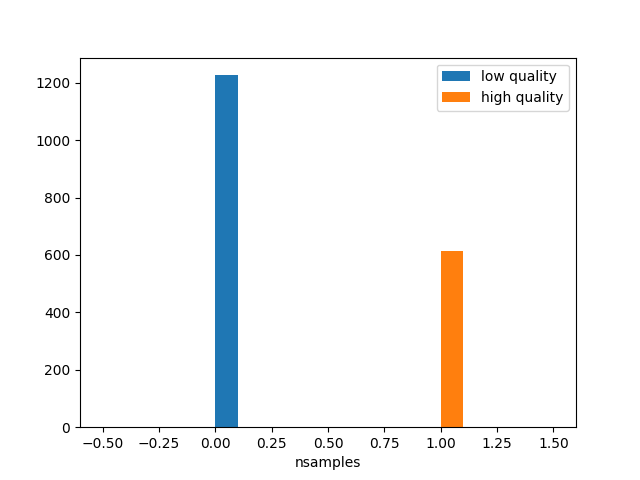
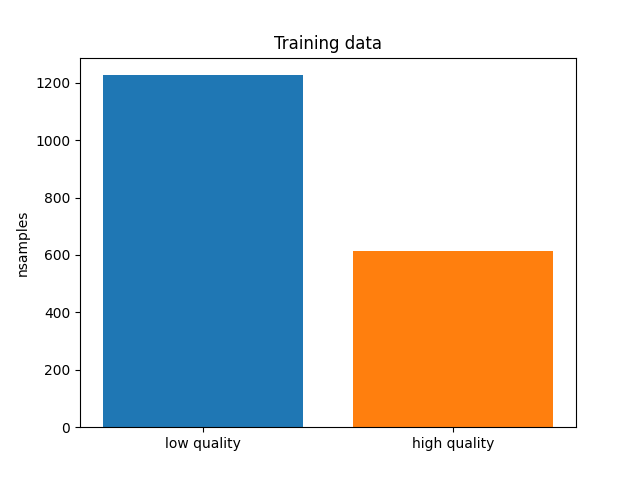
updated func gmm and bar num samples

diff --git a/main.py b/main.py
@@ -487,7 +487,7 @@ def print_table_SVM_minDCF(DTR, LTR, prior, cost_fn, cost_fp, k):
 def print_graphs_Polinomial_SVM_Cs_k_c(DTR, LTR, k ):
 
     def oneGraphSingleFold(data, prior, cost_fn, cost_fp, pi_T, K, c):
-        print("working on single fold k = ", k, "c = ", c)
+        print("working on single fold k = ", K, "c = ", c)
         exps = numpy.linspace(-2,2, 5)
         Cs = 10** exps
         minDCFs = 0 * exps
@@ -501,7 +501,7 @@ def print_graphs_Polinomial_SVM_Cs_k_c(DTR, LTR, k ):
         print("DONE")
 
     def oneGraphKFold(data, prior, cost_fn, cost_fp, pi_T, K, c):
-        print("working on k fold k = ", k, "c = ", c)
+        print("working on k fold k = ", K, "c = ", c)
         exps = numpy.linspace(-2,2, 5)
         Cs = 10** exps
         minDCFs = 0 * exps
@@ -730,38 +730,86 @@ def print_graphs_GMM_minDCF(DTR, LTR, k):
         plt.legend()
 
         plt.savefig('Graph/GMM/'+title+'.png' )
+
+
+      
+       
+def print_graphs_GMM_minDCF(DTR, LTR, k):
+
+    def bar_plot_gmm(raw_minDCFs, gau_minDCFs, gmm_comp, title):
+
+        widthbar = 0.2
+
+        x_ind = numpy.arange(len(gmm_comp))
+
+        raw_ind = x_ind - widthbar/2
+        gau_ind = x_ind + widthbar/2
+
+        lb1 = "minDCF (prior=0.5) - Raw"
+        lb2 = "minDCF (prior=0.5) - Gaussianized"
+        
+        plt.bar(raw_ind, raw_minDCFs, width = widthbar, color = 'orange', label = lb1)
+        plt.bar(gau_ind, gau_minDCFs, width = widthbar, color = 'red', label = lb2)
+
+        plt.xticks(x_ind ,gmm_comp)
+        plt.ylabel('minDCFs')
+        plt.xlabel('GMM components')
+        plt.legend()
+
+        plt.savefig('Graph/GMM/'+title+'.png' )
+
+
+    def GMM_compute_DCFs(DTR, LTR, k, covariance_type, prior, cost_fn, cost_fp):
+        gmm_comp = [1,2,4,8,16]
+        raw_minDCFs = []
+        gau_minDCFs = []
+
+        normalized_features = Z_normalization(DTR)
+        gaussianizedFeatures = gaussianization(DTR)
+
+        constrained=True
+        psi=0.01
+        alpha=0.1
     
-    gmm_comp = [1,2,4,8,16]
-    raw_minDCFs = []
-    gau_minDCFs = []
+        print("************************" + covariance_type + "*************************")
+        for i in range(len(gmm_comp)):
+            params = [constrained, psi, covariance_type, alpha, gmm_comp[i]]
+            print("-------> working on raw data, comp= ", gmm_comp[i])
+            # Raw features
+            raw_minDCFs_i,_,_ = model_evaluation.k_cross_DCF(normalized_features, LTR, k, gaussian_mixture_models.GMM_computeLogLikelihoodRatios, prior , cost_fn, cost_fp, params)
+            print("-------> DONE raw data")
+            # Gaussianized features
+            print("-------> working on gauss data, comp= ", gmm_comp[i])
+            gau_minDCFs_i,_,_ = model_evaluation.k_cross_DCF(gaussianizedFeatures, LTR,k, gaussian_mixture_models.GMM_computeLogLikelihoodRatios, prior , cost_fn, cost_fp, params)
+            print("-------> DONE gauss data")
+            raw_minDCFs.append(raw_minDCFs_i)
+            gau_minDCFs.append(gau_minDCFs_i)    
+        
+        raw_minDCFs=numpy.array(raw_minDCFs)
+        gau_minDCFs=numpy.array(gau_minDCFs)
+        return raw_minDCFs, gau_minDCFs, gmm_comp
 
-    prior= 0.5
-    cost_fn=1
-    cost_fp = 1
-
-    normalized_features = Z_normalization(DTR)
-    gaussianizedFeatures = gaussianization(DTR)
-
-    constrained=True
-    psi=0.01
-    alpha=0.1
     
     #### Full Cov
     covariance_type = "Full"
-    
-    
-    for i in range(len(gmm_comp)):
-        # Raw features
-        raw_minDCFs_i,_,_ = model_evaluation.k_cross_DCF(normalized_features, LTR,k, gaussian_mixture_models.GMM_computeLogLikelihoodRatios, prior , cost_fn, cost_fp, [constrained, psi, covariance_type, alpha, gmm_comp[i]])
-        # Gaussianized features
-        gau_minDCFs_i,_,_ = model_evaluation.k_cross_DCF(gaussianizedFeatures, LTR,k, gaussian_mixture_models.GMM_computeLogLikelihoodRatios, prior , cost_fn, cost_fp, [constrained, psi, covariance_type, alpha, gmm_comp[i]])
-        raw_minDCFs.append(raw_minDCFs_i)
-        gau_minDCFs.append(gau_minDCFs_i)    
-    
-    raw_minDCFs=numpy.array(raw_minDCFs)
-    gau_minDCFs=numpy.array(gau_minDCFs)
-
+    raw_minDCFs, gau_minDCFs, gmm_comp = GMM_compute_DCFs(DTR, LTR, k, covariance_type, 0.5, 1, 1)
     bar_plot_gmm(raw_minDCFs, gau_minDCFs, gmm_comp, "GMM_Full_covariance")
+
+    #### Diagonal Cov
+    covariance_type = "Diagonal"
+    raw_minDCFs, gau_minDCFs, gmm_comp = GMM_compute_DCFs(DTR, LTR, k, covariance_type, 0.5, 1, 1)
+    bar_plot_gmm(raw_minDCFs, gau_minDCFs, gmm_comp, "GMM_Diagonal_covariance")
+
+    #### Diagonal Cov
+    covariance_type = "Tied"
+    raw_minDCFs, gau_minDCFs, gmm_comp = GMM_compute_DCFs(DTR, LTR, k, covariance_type, 0.5, 1, 1)
+    bar_plot_gmm(raw_minDCFs, gau_minDCFs, gmm_comp, "GMM_Tied_covariance")
+    
+    #### Diagonal Cov
+    covariance_type = "Tied Diagonal"
+    raw_minDCFs, gau_minDCFs, gmm_comp = GMM_compute_DCFs(DTR, LTR, k, covariance_type, 0.5, 1, 1)
+    bar_plot_gmm(raw_minDCFs, gau_minDCFs, gmm_comp, "GMM_Tied_Diagonal_covariance")
+
     
     
 
@@ -902,17 +950,12 @@ if __name__ == '__main__':
     '''
 
     ##enstablish if data are balanced
-    '''
+    
     n_high_qty = numpy.count_nonzero(LTR == 1)
     n_low_qty = numpy.count_nonzero(LTR == 0)
     ##-----> number of low qty >> number of high qty
-    plt.figure()
-    plt.xlabel("nsamples")
-    plt.hist(numpy.zeros(n_low_qty),  label = 'low quality')
-    plt.hist(numpy.ones(n_high_qty), label = 'high quality')
-    plt.legend()
-    plt.savefig('Stat/hist_number_of_data.png')
-    '''
+    stats.bars_numsamples(n_high_qty, n_low_qty)
+    
     
     '''
     NON SERVE
@@ -1039,8 +1082,9 @@ if __name__ == '__main__':
     print("********************************************************************")
     '''
     ### GMM
-
+    '''
     print_graphs_GMM_minDCF(DTR, LTR, k)
+    '''
 
     ## COMPARISON BETWEEN ACT DCF AND MIN DCF OF THE CHOSEN MODELS
     '''

diff --git a/gaussian_mixture_models.py b/gaussian_mixture_models.py
@@ -188,117 +188,3 @@ def GMM_computeLogLikelihoodRatios(DTR, LTR, DTE, otherParams): #otherparams= [c
     return llr #loglikelihoodRatio
     
 
-
-    
-
-    
-    
-
-
-
-if __name__ == '__main__':
-    
-    ################# 1) GMM DENSITY ####################
-    X_4D = numpy.load("Lab10/Data/GMM_data_4D.npy") #samples, matrix (4,100)
-    X_1D = numpy.load("Lab10/Data/GMM_data_1D.npy") #samples, matrix (1,100)
-    gmm_4D = load_gmm("Lab10/Data/GMM_4D_3G_init.json")
-    gmm_1D = load_gmm("Lab10/Data/GMM_1D_3G_init.json")
-    
-    #logdens = logpdf_GMM(X_4D,gmm_4D)
-    logdensitiesSol_4D =numpy.load("Lab10/Data/GMM_4D_3G_init_ll.npy") #They are the same
-
-    logdensitiesSol_1D =numpy.load("Lab10/Data/GMM_1D_3G_init_ll.npy") #They are the same
-
-    ################# 2) THE EM ALGORITHM ####################
-
-    print(">>>EM ALGORITHM<<<")
-    #x =numpy.sort(X_4D)
-    #gmm_EM= compute_EM_algorithm(X_4D, gmm_4D)
-    #gmm_density = pdf_GMM(x, gmm_EM) 
-
-    #visualize_estimated_density(gmm_density, X_1D, "Estimated GMM density")
-    
-    ################# 3) LBG ALGORITHM ####################
-    print(">>>LBG ALGORITHM<<<")
-    
-    constrained= False
-    psi= -1
-
-    #x= numpy.sort(X_4D)
-    #LBG_esitimated_gmm= compute_LBG_algorithm(X_4D, 4, constrained, psi)
-     
-    #a=1
-    #visualize_estimated_density(pdf_GMM(x, LBG_esitimated_gmm), X_1D, "Estimated LBG density")
-    
-    ################# 4) CONSTRAINING THE EIGENVALUES OF THE COVARIANCE MATRIX ####################
-    
-    ################# 5) DIAGONAL AND TIED COVARIANCE GMMs ####################
-
-    ################# 6) gmm FOR CLASSIFICATION ####################
-
-    print(">>>Use gmm to classify the iris dataset<<<")
- 
-    D, L = load_iris()
-
-    # D= Data -> matrix 150data*4 attributes ----150-----
-    #                                        |          |
-    #                                        4          |
-    #                                        |----------|
-    # L=label-> row of 150 labels (1 per data)
-
-    (DTR, LTR), (DTE,LTE)=split_db_2tol(D,L)
-    # 100 samples for trainining and 50 sample for evaluation  
-    # DTR: Training Data
-    # DTE: Evaluation Data
-    # LTR: Training Labels
-    # LTE: Evaluation Labels
-
-    
-
-
-    # *****************************************************
-    # MULTIVARIATE GAUSSIAN CLASSIFIER
-    # *****************************************************
-    constrained=True
-    psi=0.01
-    alpha=0.1
-    covariance_type="Full"
-    number_components=2
-
-    GMM_classifier(DTR, LTR, DTE, LTE, constrained, psi, "Full", alpha, 1)
-    print("---------------------------------")
-    GMM_classifier(DTR, LTR, DTE, LTE, constrained, psi, "Full", alpha, 2)
-    print("---------------------------------")
-    GMM_classifier(DTR, LTR, DTE, LTE, constrained, psi, "Full", alpha, 4)
-    print("---------------------------------")
-    GMM_classifier(DTR, LTR, DTE, LTE, constrained, psi, "Full", alpha,8)
-    print("---------------------------------")
-    GMM_classifier(DTR, LTR, DTE, LTE, constrained, psi, "Full", alpha, 16)
-    print("+++++++++++++++++++++++++++++++++")
-    print("+++++++++++++++++++++++++++++++++")
-    GMM_classifier(DTR, LTR, DTE, LTE, constrained, psi, "Diagonal", alpha, 1)
-    print("---------------------------------")
-    GMM_classifier(DTR, LTR, DTE, LTE, constrained, psi, "Diagonal", alpha, 2)
-    print("---------------------------------")
-    GMM_classifier(DTR, LTR, DTE, LTE, constrained, psi, "Diagonal", alpha, 4)
-    print("---------------------------------")
-    GMM_classifier(DTR, LTR, DTE, LTE, constrained, psi, "Diagonal", alpha,8)
-    print("---------------------------------")
-    GMM_classifier(DTR, LTR, DTE, LTE, constrained, psi, "Diagonal", alpha, 16)
-
-    print("+++++++++++++++++++++++++++++++++")
-    print("+++++++++++++++++++++++++++++++++")
-    GMM_classifier(DTR, LTR, DTE, LTE, constrained, psi, "Tied", alpha, 1)
-    print("---------------------------------")
-    GMM_classifier(DTR, LTR, DTE, LTE, constrained, psi, "Tied", alpha, 2)
-    print("---------------------------------")
-    GMM_classifier(DTR, LTR, DTE, LTE, constrained, psi, "Tied", alpha, 4)
-    print("---------------------------------")
-    GMM_classifier(DTR, LTR, DTE, LTE, constrained, psi, "Tied", alpha,8)
-    print("---------------------------------")
-    GMM_classifier(DTR, LTR, DTE, LTE, constrained, psi, "Tied", alpha, 16)
-    print("---------------------------------")
-
-plt.show()
-    
-

diff --git a/stats.py b/stats.py
@@ -101,5 +101,17 @@ def plot_heatmaps (D, L, path):
     plt.savefig(str(path)+'/high_quality')
     
 
+def bars_numsamples(n_high_qty, n_low_qty):
+    
+    plt.figure()
+    plt.ylabel("nsamples")
+    widthbar = 0.1
+    plt.xticks([0,1], ['low quality', 'high quality'])
+    plt.bar( 0, n_low_qty)
+    plt.bar( 1,n_high_qty)
+    plt.title("Training data")
+    plt.savefig('Stat/hist_number_of_data.png')
+    
+
     
 
